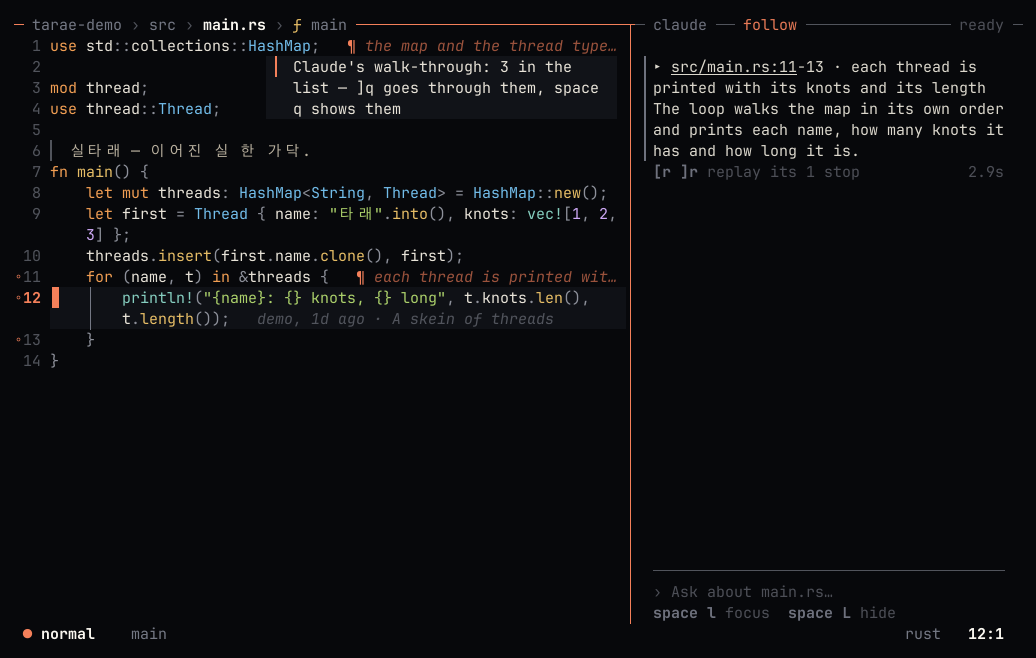
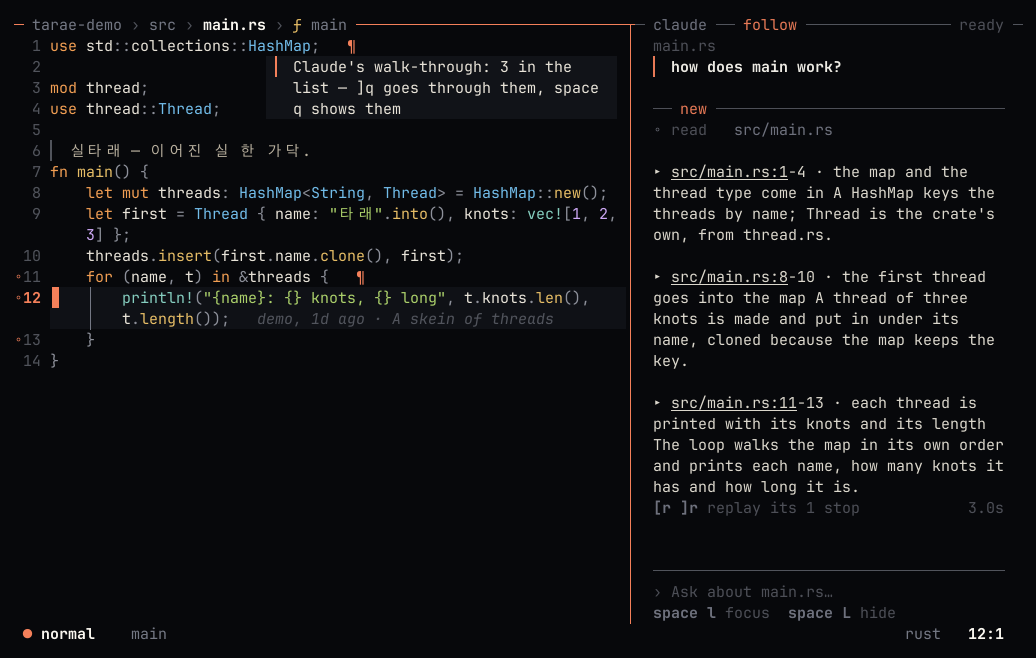
The docs' pictures after #387 and #388 step 2: review.png, ux-git.png and follow-ask.png retaken, and follow-ask's `.varies` row where the answer's time is now
#387 (da49f78d: a jump centres its target only when it was out of sight) moved two pictures. In `review.png` (rows 1–12 on, the code under the review) and `ux-git.png` (the git tab's diff, from row 1) the view stands where the jump left it now.

#388 step 2 (575c31c8: the chat whole, an older answer drawn as written, its places flags at the code) moved `follow-ask.png`. The walk-through's answer is drawn whole in the column, each stop's paragraph in full, where it was folded to its stubs. Its lines carry their `¶` flags (lines 1 and 11).

The user saw all three as before/after pairs and said yes (2026-11-05). They're kept by `cargo xtask scenes --docs --keep`, from one run that took the three.

The row: follow-ask's `.varies` named the turn's time at row 7, cols 103..111. With the answer drawn whole that row holds prose (`"the     "`), so every retake failed its check (`the layout moved`). The time is now at the answer's last row, row 23, in the same cols 103..111 (`    3.0s`, right-aligned). The row says `turn_time(23, (103, 111))` and its comment names #388 step 2. Retaken after the keep, follow-ask.png comes out the same.

The whole docs run (`cargo xtask scenes --docs`, no `--keep`) took 32 of 34 the same. review.png and ux-git.png differed, and follow-ask.png failed on the row above. No other picture changed.
[…]

diff --git a/xtask/src/scenes/docshots.rs b/xtask/src/scenes/docshots.rs
@@ -703,8 +703,9 @@ const DOCS: &[DocShot] = &[
     row("follow-hanji.png", None, S).light(),
     row("follow-thinking.png", None, S),
     row("follow-show.png", None, (140, 40)),
-    // (the turn's time on the answer's last row, right-aligned: tarae's clock, a tenth either way)
-    row("follow-ask.png", Some("followask"), S).varies(&[turn_time(7, (103, 111))]),
+    // (the turn's time on the answer's last row, right-aligned: tarae's clock, a tenth either way — the answer drawn
+    // whole, #388 step 2)
+    row("follow-ask.png", Some("followask"), S).varies(&[turn_time(23, (103, 111))]),
     // (the turn's time on the chat's last answer row, right-aligned: tarae's clock, a tenth either way)
     row("m4-chat-hanji.png", Some("chatanswer"), S).light().varies(&[turn_time(24, (103, 111))]),
     row("chat-plan.png", None, S),
